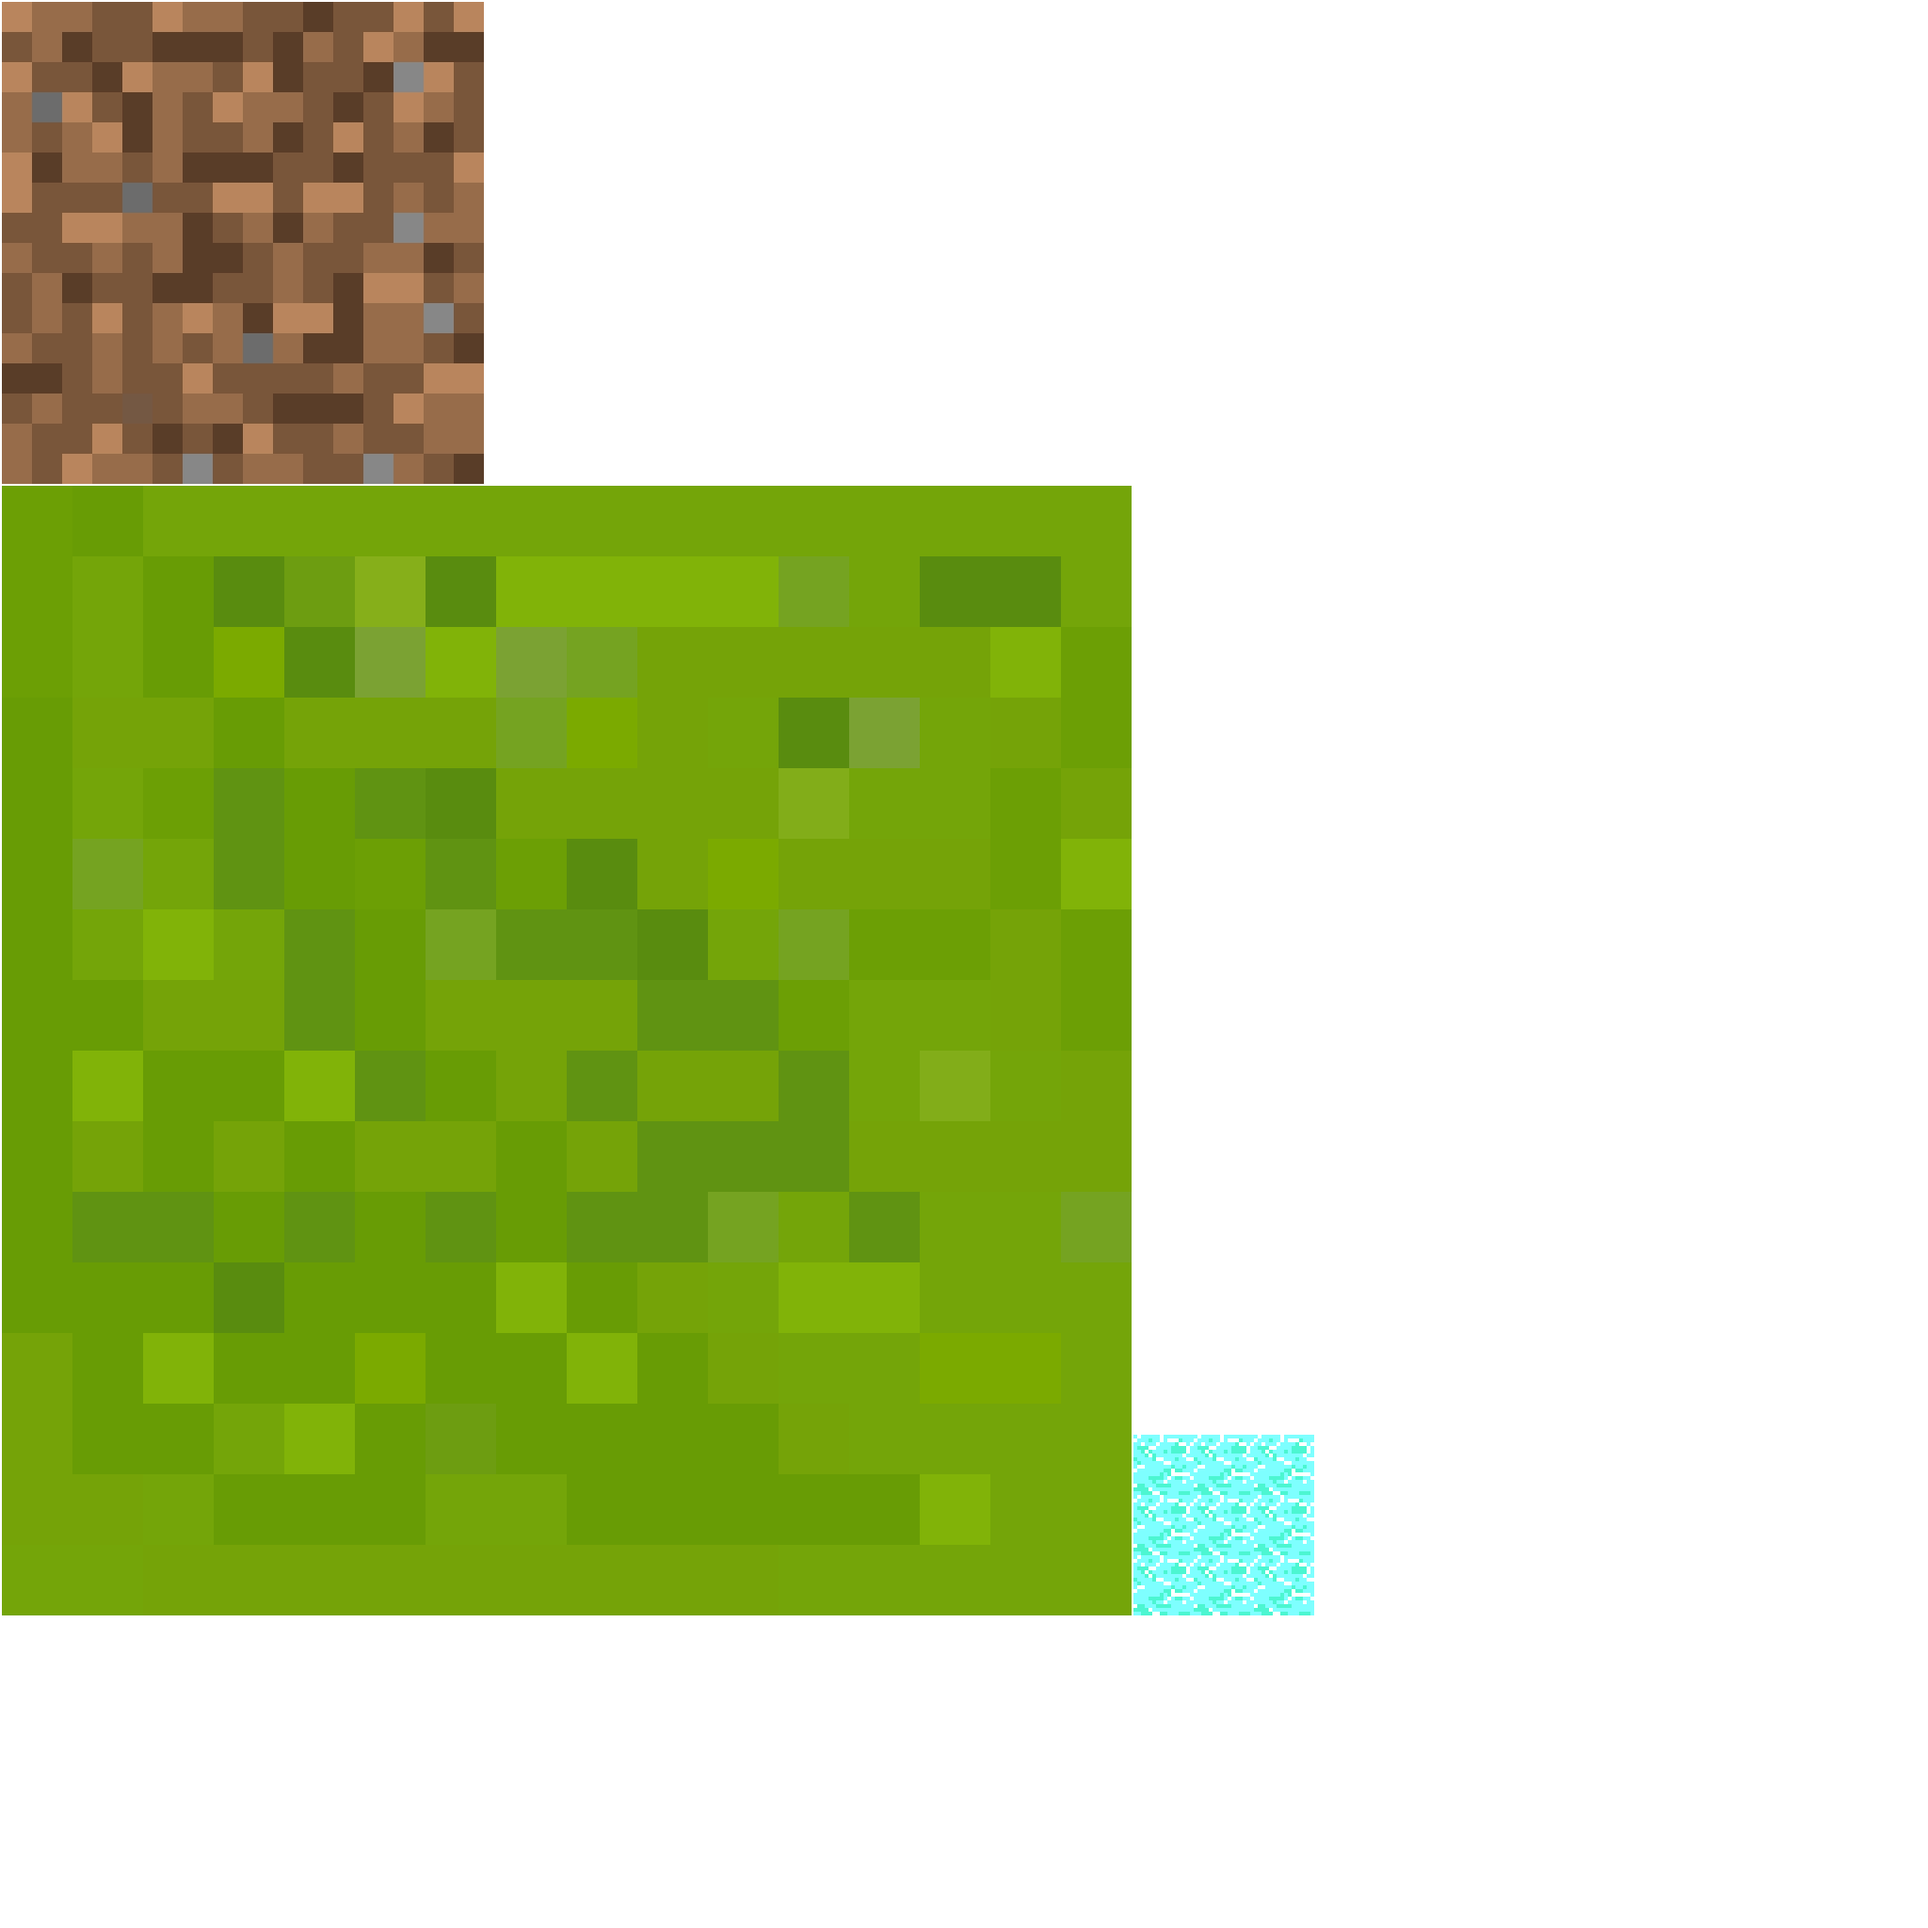
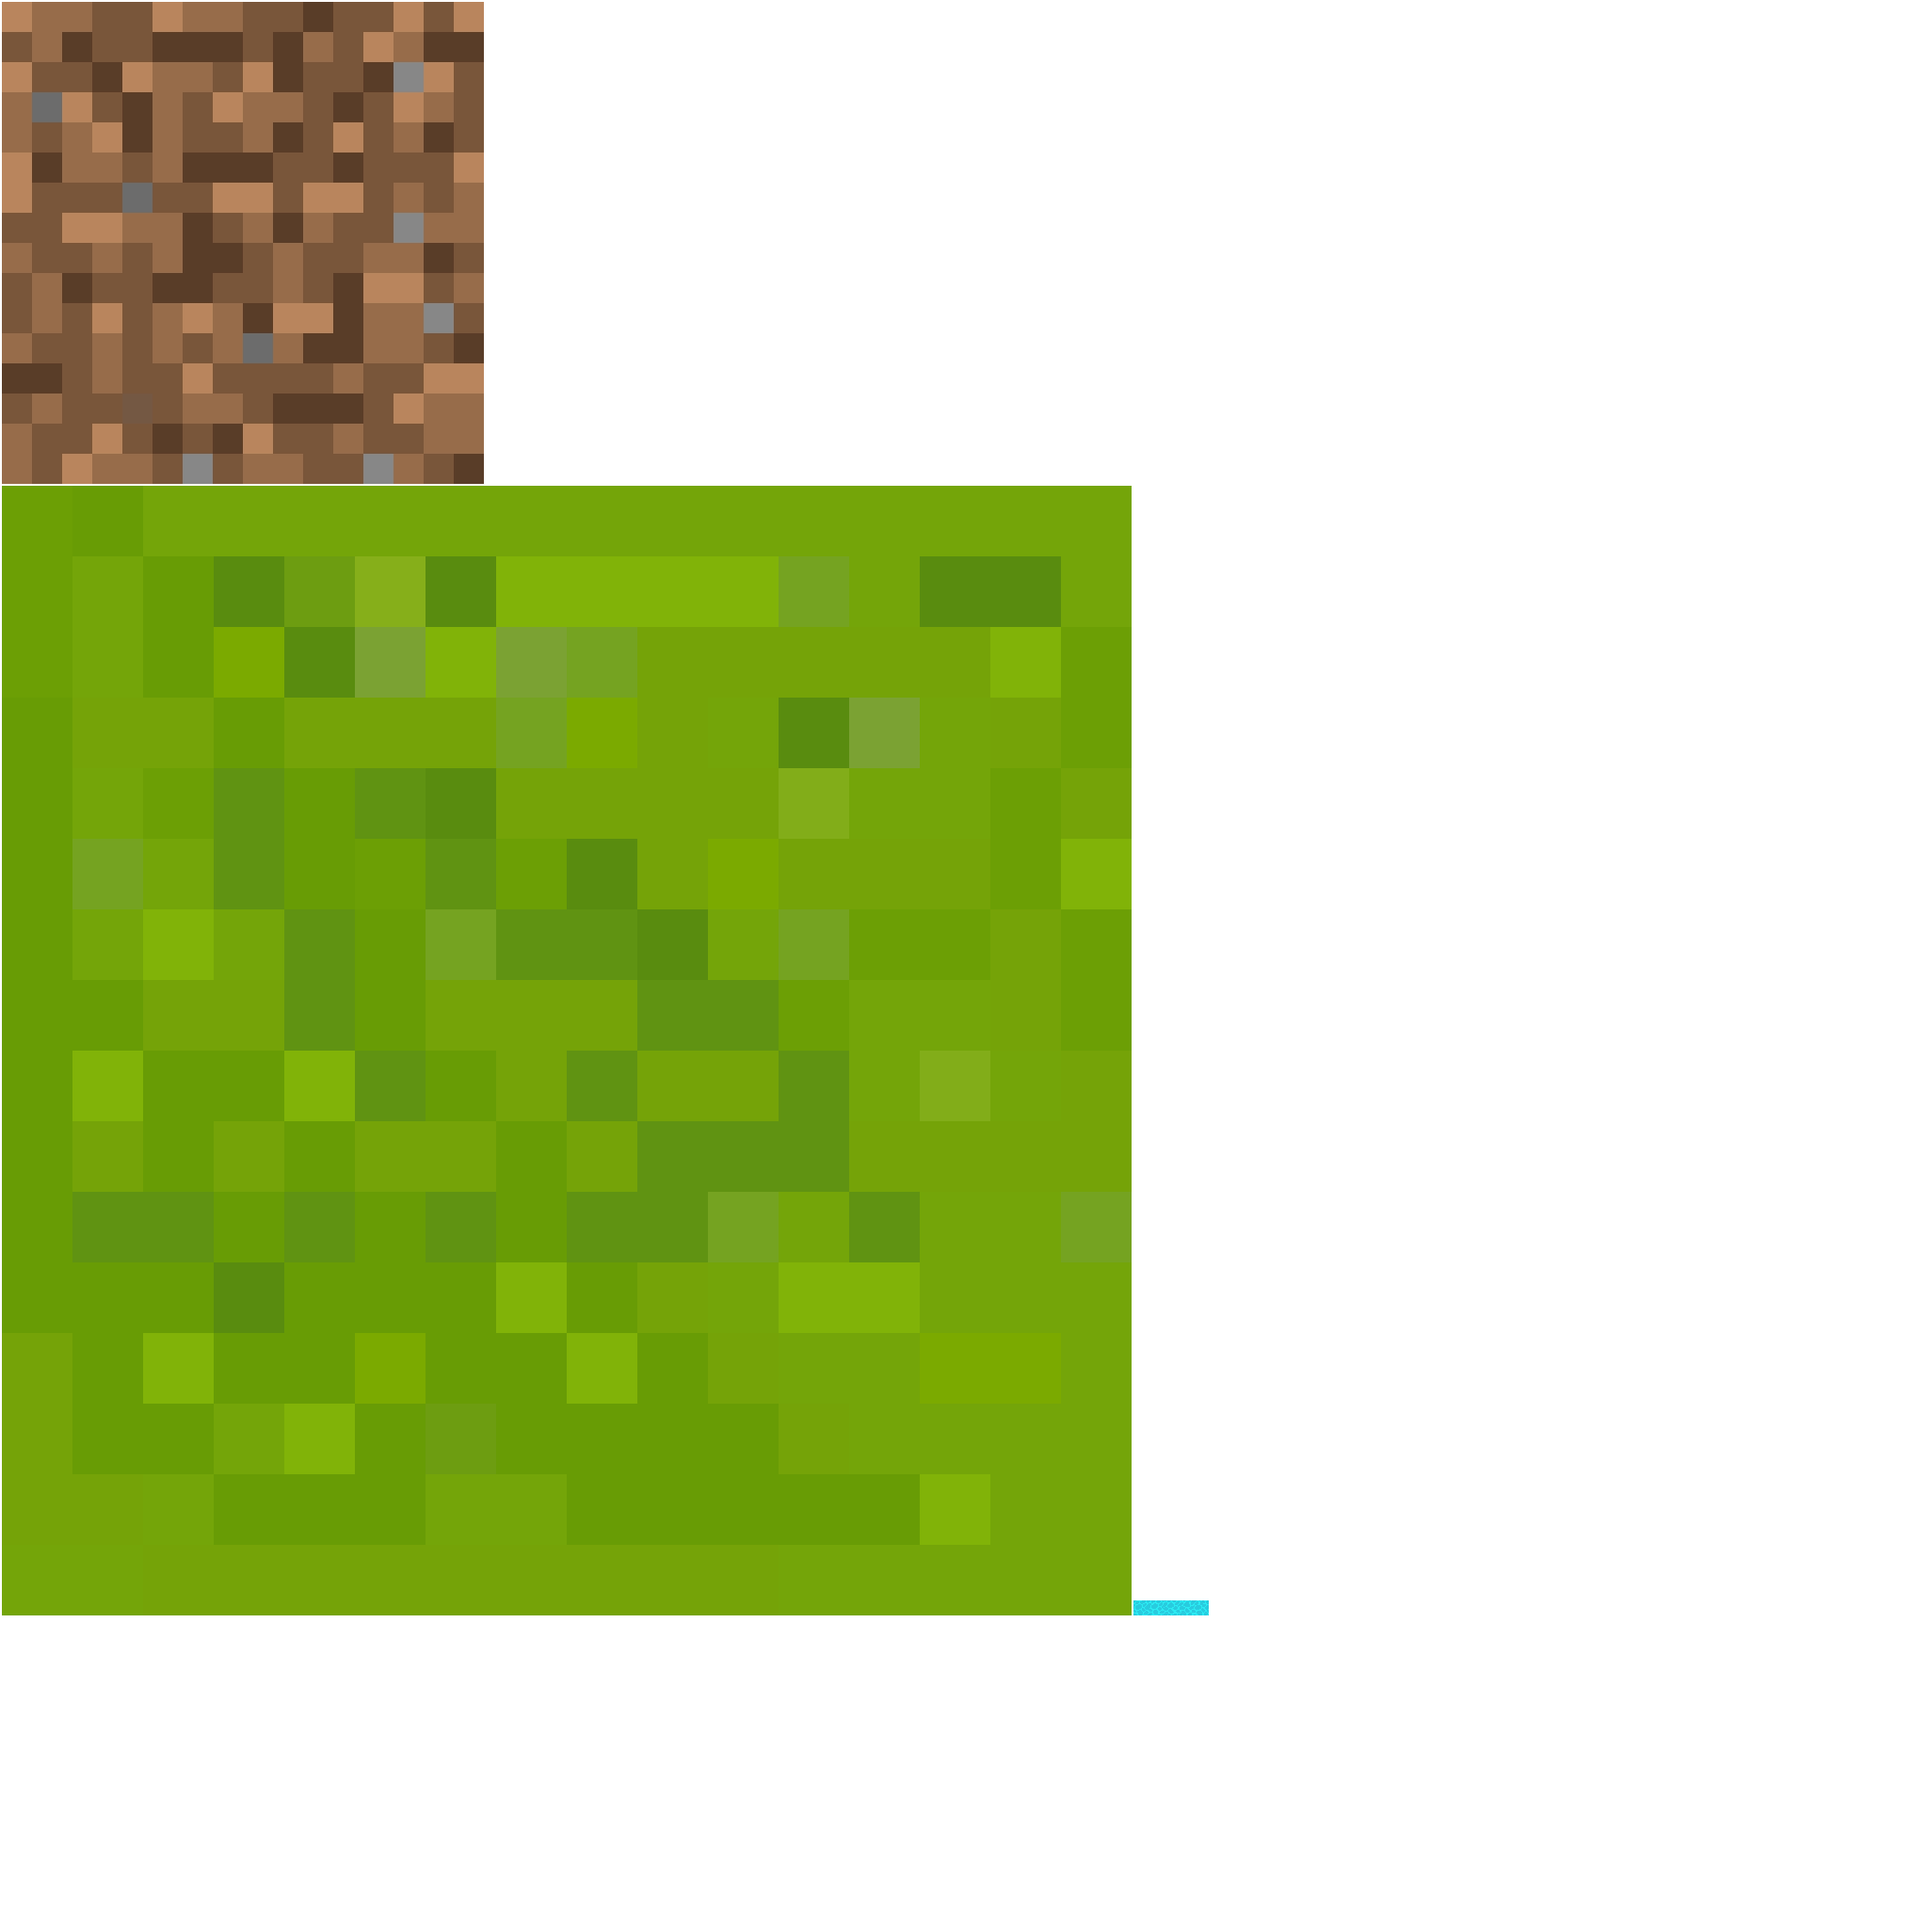
animation of environemt - Eric

Changed region(s): [[0.5625, 0.7188, 0.6875, 0.8438]]

diff --git a/core/src/main/java/io/github/game/Entity.java b/core/src/main/java/io/github/game/Entity.java
@@ -1,7 +1,7 @@
 package io.github.game;
 import com.badlogic.gdx.graphics.g2d.*;
 import com.badlogic.gdx.math.Rectangle;
-import com.badlogic.gdx.utils.Array;
+import io.github.game.utils.AnimationLoader;
 
 import java.util.*;
 
@@ -19,7 +19,7 @@ public abstract class Entity {
     protected float stateTime = 0f;
 
     protected TextureAtlas spriteAtlas;
-    protected Sprite sprite;
+    protected TextureRegion sprite;
 
     public Entity(float xPos, float yPos,
                   int width, int height,
@@ -51,19 +51,10 @@ public abstract class Entity {
 
     public abstract void update(float delta_t);
 
-    public void addAnimation(String name, int frames, float duration) {
-        // Used to add an animation,
-        // name: name of the animation,
-        // frames: the number of frames in the animation (1 for un-animated sprites)
-        //  - NOTE: each image in the atlas for that animation should have a number in its file name
-        //          indication its order in the animation
-        // duration: duration of the animation (1f for un-animated sprites)
-
-        Array<TextureRegion> textureFrames = new Array<>();
-        for (int i = 0; i < frames; i++) {
-            textureFrames.add(new TextureRegion(spriteAtlas.findRegion(name + (i + 1))));
-        }
-        animationMap.put(name, new Animation<>(duration, textureFrames, Animation.PlayMode.LOOP));
+    public void addAnimation(String name, float duration, Animation.PlayMode playMode) {
+        //  NOTE: each image in the atlas for that animation should have a number at the end of
+        //  its file name indication its order in the animation (starting from frame 1)
+        animationMap.put(name, AnimationLoader.getAnimation(name, duration, spriteAtlas, playMode));
     }
 
     public void dispose() {

diff --git a/core/src/main/java/io/github/game/TileType.java b/core/src/main/java/io/github/game/TileType.java
@@ -1,35 +1,44 @@
 package io.github.game;
 
+import com.badlogic.gdx.graphics.g2d.Animation;
+import com.badlogic.gdx.graphics.g2d.Sprite;
 import com.badlogic.gdx.graphics.g2d.TextureAtlas;
 import com.badlogic.gdx.graphics.g2d.TextureRegion;
+import com.badlogic.gdx.utils.Array;
+import io.github.game.utils.AnimationLoader;
 
 public enum TileType {
 
     // each tile has a value based on the order they are created in this enum
     GRASS("grass", false),
     DIRT("dirt", false),
-    WATER("water", true);
+    WATER("water", true, 0.15f);
 
-    private String name;
-    private boolean collidable;
-    private TextureRegion textureRegion;
+    private final String name;
+    private final boolean collidable;
+    private final float duration;
+    private Animation<TextureRegion> animation;
 
-    TileType(String name, boolean collidable) {
+    TileType(String name, boolean collidable, float duration) {
         this.name = name;
         this.collidable = collidable;
+        this.duration = duration;
+    }
+    TileType(String name, boolean collidable) {
+        this(name, collidable, 1f);
     }
 
     public boolean isCollidable() {
         return collidable;
     }
 
-    public TextureRegion getTextureRegion() {
-        return textureRegion;
+    public Animation<TextureRegion> getAnimation() {
+        return animation;
     }
 
-    public static void loadTileTextures(TextureAtlas atlas) {
+    public static void loadTileAnimations(TextureAtlas tileAtlas) {
         for (TileType type : TileType.values()) {
-            type.textureRegion = atlas.findRegion(type.name);
+            type.animation = AnimationLoader.getAnimation(type.name, type.duration, tileAtlas, Animation.PlayMode.LOOP);
         }
     }
 }

diff --git a/core/src/main/java/io/github/game/Environment.java b/core/src/main/java/io/github/game/Environment.java
@@ -1,6 +1,7 @@
 package io.github.game;
 
 import com.badlogic.gdx.Gdx;
+import com.badlogic.gdx.graphics.g2d.Sprite;
 import com.badlogic.gdx.graphics.g2d.SpriteBatch;
 import com.badlogic.gdx.graphics.g2d.TextureAtlas;
 
@@ -11,13 +12,16 @@ public class Environment {
     private int height;
     private final TextureAtlas tilesAtlas;
 
+    private float stateTime = 0f;
+
+
     public Environment(int[][] environmentBlueprint, TextureAtlas tilesAtlas) {
         this.width = environmentBlueprint[0].length;
         this.height = environmentBlueprint.length;
         this.environment = new Tile[height][width];
         this.tilesAtlas = tilesAtlas;
 
-        TileType.loadTileTextures(tilesAtlas);
+        TileType.loadTileAnimations(tilesAtlas);
 
         createEnvironment(environmentBlueprint);
     }
@@ -39,9 +43,18 @@ public class Environment {
     }
 
     public void render(SpriteBatch batch) {
-        for (int row = 0; row < height; row++) {
-            for (int col = 0; col < width; col++) {
-                environment[row][col].render(batch);
+        for (Tile[] row : environment) {
+            for (Tile tile : row) {
+                tile.render(batch);
+            }
+        }
+    }
+
+    public void update(float delta_t) {
+        stateTime += delta_t;
+        for (Tile[] row : environment) {
+            for (Tile tile : row) {
+                tile.update(stateTime);
             }
         }
     }

diff --git a/core/src/main/java/io/github/game/utils/AnimationLoader.java b/core/src/main/java/io/github/game/utils/AnimationLoader.java
@@ -1,0 +1,34 @@
+package io.github.game.utils;
+
+import com.badlogic.gdx.graphics.g2d.Animation;
+import com.badlogic.gdx.graphics.g2d.TextureAtlas;
+import com.badlogic.gdx.graphics.g2d.TextureRegion;
+import com.badlogic.gdx.utils.Array;
+
+
+public final class AnimationLoader {
+
+    private AnimationLoader() {}
+
+    public static Animation<TextureRegion> getAnimation(String name, float duration, TextureAtlas atlas, Animation.PlayMode playMode) {
+        //  NOTE: each image in the atlas for that animation should have a number at the end of
+        //  its file name indication its order in the animation (starting from frame 1)
+
+        Array<TextureRegion> frames = new Array<>();
+        int frameIndex = 0;
+
+        while (true) {
+            TextureRegion currentFrame = atlas.findRegion(name + (frameIndex + 1));
+
+            if (currentFrame == null) {
+                break;
+            }
+
+            frames.add(currentFrame);
+            frameIndex++;
+        }
+
+        return new Animation<>(duration, frames, playMode);
+    }
+}
+

diff --git a/core/src/main/java/io/github/game/Tile.java b/core/src/main/java/io/github/game/Tile.java
@@ -1,6 +1,7 @@
 package io.github.game;
 
 import com.badlogic.gdx.graphics.g2d.SpriteBatch;
+import com.badlogic.gdx.graphics.g2d.TextureRegion;
 import com.badlogic.gdx.math.Rectangle;
 
 public class Tile {
@@ -10,6 +11,7 @@ public class Tile {
     private final int xPos, yPos; // world coordinates
     private Rectangle hitbox;
 
+    private TextureRegion sprite;
     public Tile(TileType type, int xPos, int yPos) {
         this.type = type;
         this.xPos = xPos;
@@ -21,7 +23,11 @@ public class Tile {
     }
 
     public void render(SpriteBatch batch) {
-        batch.draw(type.getTextureRegion(), xPos, yPos, SIZE, SIZE);
+        batch.draw(sprite, xPos, yPos, SIZE, SIZE);
+    }
+
+    public void update(float stateTime) {
+        this.sprite = type.getAnimation().getKeyFrame(stateTime);
     }
 
     public TileType getType() {

diff --git a/core/src/main/java/io/github/game/Player.java b/core/src/main/java/io/github/game/Player.java
@@ -1,5 +1,6 @@
 package io.github.game;
 
+import com.badlogic.gdx.graphics.g2d.Animation;
 import com.badlogic.gdx.graphics.g2d.SpriteBatch;
 import com.badlogic.gdx.graphics.g2d.TextureAtlas;
 
@@ -15,7 +16,7 @@ public class Player extends Entity {
 
         // Sets up the sprite movement map
         for (String name : new String[]{"front", "back", "left", "right"}) {
-            addAnimation(name, 4, 0.1f);
+            addAnimation(name, 0.1f, Animation.PlayMode.LOOP);
         }
 
         setSprite("front", stateTime);
@@ -23,6 +24,7 @@ public class Player extends Entity {
 
     @Override
     public void render(SpriteBatch batch) {
+
         batch.draw(sprite, xPos, yPos, width, height);
     }
 

diff --git a/core/src/main/java/io/github/game/Main.java b/core/src/main/java/io/github/game/Main.java
@@ -11,7 +11,6 @@ import com.badlogic.gdx.utils.viewport.FitViewport;
 
 /** {@link com.badlogic.gdx.ApplicationListener} implementation shared by all platforms. */
 public class Main extends ApplicationAdapter {
-
     private SpriteBatch spriteBatch;
     private FitViewport viewport;
 
@@ -70,6 +69,7 @@ public class Main extends ApplicationAdapter {
         float delta_t = Gdx.graphics.getDeltaTime();
         // update your player, enemies, and check for collisions
         player.update(delta_t);
+        environment.update(delta_t);
     }
 
     public void draw() {
